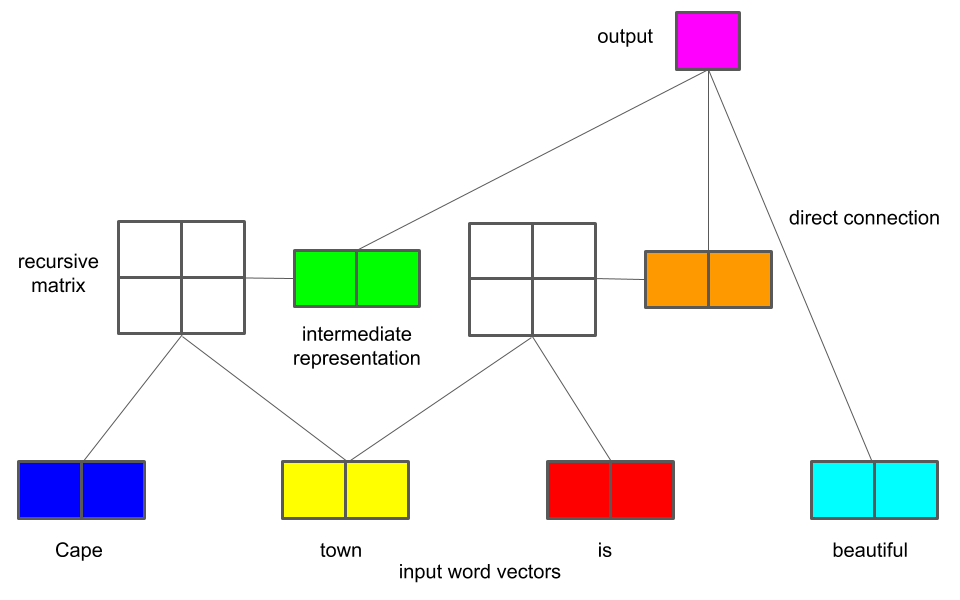
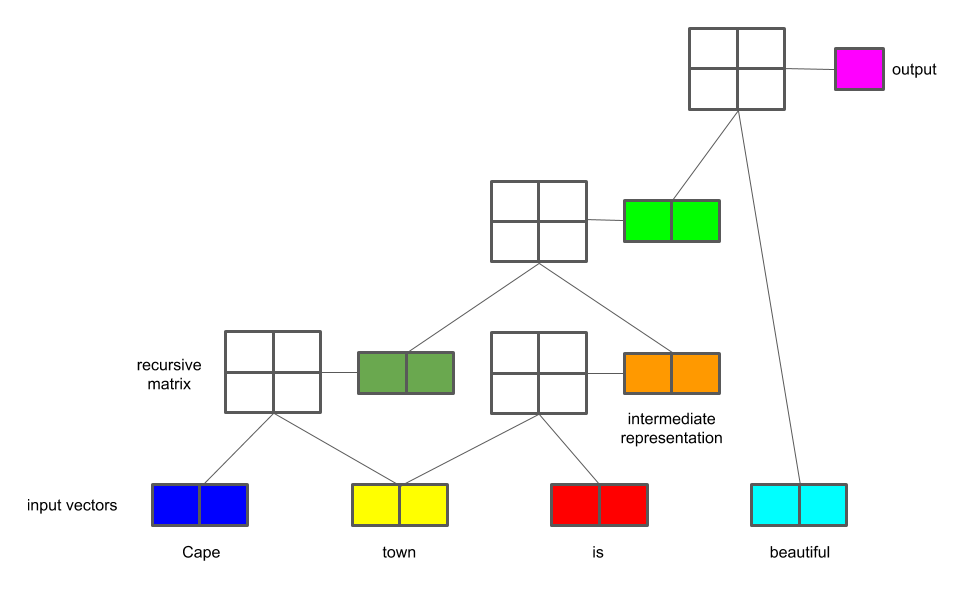
Chapter3 - Review comments 2 - Section3.1
Iterate NTN model training algorithm optimisation partII.

diff --git a/Chapter3/chapter3.tex b/Chapter3/chapter3.tex
@@ -36,7 +36,7 @@ Knowledge graphs (KGs) are a framework used to represent logical structure in da
 
 \section{Neural tensor networks}
 
-\subsection{Neural tensor factorisation}
+\subsection{Nonlinear latent feature modelling}
 Nickel et al. \unskip ~\citep{nickel2011three} introduced the bilinear tensor product for relational scoring, in a model called RESCAL. This model makes use of entity vectors and a relational tensor, where each relation type is modelled as a matrix slice of the tensor. RESCAL is defined as follows:
 \begin{equation}
 	f_{i, k, j} = e_i^TW_ke_j = \sum_{a=1}^{H_e}\sum_{b=1}^{H_e}W_{a,b,k}e_{ia}e_{jb}
@@ -73,11 +73,11 @@ Chen et al.  \unskip ~\citep{socher2013reasoning} introduce nonlinear tensor fac
 	g_{i,k,j} =  u_k^Tf(e_i^TW_k^{\left [1:m \right ]} e_j + V_k \left [ \begin{matrix} e_i \\ e_j \end{matrix} \right ] + b_k)
 \end{equation}
 
-\noindent where $ g_{i,k,j} $ is the relational score tensor, $ u_k^T $ is the vector of scores indexed by relation $ k $, and $ f $ is the hyperbolic tangent function. $ e_i^TW_k^{\left [1:m \right ]} e_j $ is the bilinear tensor product between subject vector $ e_i^T \in \mathbb{R}^{1 \times n} $ and object vector $ e_j \in \mathbb{R}^{n \times 1} $, computed for relations $ W_k \in \mathbb{R}^{n \times n} $, where $ k \in \{1 \dots \; m \} $, and $ b_k $ is the bias. $ \; V_k \left [ \begin{matrix} e_i \\ e_j \end{matrix} \right ] $ is the recursive entity composition, where $ V_k \in \mathbb{R}^{k \times 2n} $ is a matrix of trainable parameters, and the matrix-vector product is taken between $ V_k $ and the concatenation of the subject and object vectors. A row of matrix $ V_k $ corresponds to relation $ k $. \par
+\noindent where $ g_{i,k,j} $ is the relational score tensor, $ u_k^T \in \mathbb{R}^{1 \times m} $ is an output layer of trainable prameters, and $ f $ is the hyperbolic tangent function. $ e_i^TW_k^{\left [1:m \right ]} e_j $ is the bilinear tensor product between subject vector $ e_i^T \in \mathbb{R}^{1 \times n} $ and object vector $ e_j \in \mathbb{R}^{n \times 1} $, computed for relations $ W_k \in \mathbb{R}^{n \times n} $, where $ k \in \{1 \dots \; m \} $, and $ b_k $ is the bias. $ \; V_k \left [ \begin{matrix} e_i \\ e_j \end{matrix} \right ] $ is the recursive entity composition, where $ V_k \in \mathbb{R}^{k \times 2n} $ is a matrix of trainable parameters, and the matrix-vector product is taken between $ V_k $ and the concatenation of the subject and object vectors. A row of matrix $ V_k $ corresponds to relation $ k $. The output of a subject $ i $ and object $ j $ input, $ \{ e_i, \; e_j \} $, is a vector of relational scores $ \{ s_{i,1,j}, \; \dots, \; s_{i,m,j} \} $ for all predicates $ W_k $ of the KG. 
 
 \begin{figure}[H]
    	\centering
-    	\includegraphics[width=0.7\textwidth, height=0.3\textwidth]{recursive_neural_tensor_network.png}
+    	\includegraphics[width=0.7\textwidth, height=0.4\textwidth]{recursive_neural_tensor_network.png}
 	\captionsetup{justification=centering}
 	\caption{Recursive neural tensor network. This model computes the bilinear tensor product, and adds it to a recursive composition of entities and a bias to compute a relational score between the entities. The final result is squashed using a hyperbolic tangent function.}
 \end{figure}
@@ -91,31 +91,43 @@ Chen et al.  \unskip ~\citep{socher2013reasoning} introduce nonlinear tensor fac
 
 \noindent The NTN model training algorithm also makes use of pre-trained word vectors, from a language model by Turian et al. \unskip ~\citep{turian2010word}, to initialise entity embeddings. These are 100-dimensional vectors, which are aggregated from the set of words that represent an entity. For example for the entity \textit{homo sapiens}, the resulting entity embedding is $V_{homo \; sapiens} = 0.5(V_{homo} + V_{sapiens})$. These entity embeddings are trainable, and updated using backpropagation to generate a distributed representation of words that aligns with the KG of the particular application. \par
 
-\noindent \textbf{Training algorithm optimisation.} Deep model training can suffer from noisy gradient signals when using stochastic gradient descent, mini batch optimisation and regularisation techniques such as dropout. Deep models can also suffer from insufficient signal to update parameters, a problem known as sparse gradients. Adaptive moment estimation (Adam) is a first order gradient-based stochastic optimisation algorithm that compensates for this noise \unskip ~\citep{kingma2014adam}. It computes the adaptive learning rates for parameters using the first and second order moments of the gradient, combining the advantages of AdaGrad ~\citep{duchi2011adaptive} and RMSprop ~\citep{tieleman2012lecture}. Adam efficiently regulates the size of parameter updates, accelerating toward local optima and remaining small in regions with a small gradient signal, sparse regions. \par
+\subsection{Training algorithm optimisation} 
 
-\noindent Setting model hyperparameters remains a challenge in deep model training. A simple method proposed to address this problem is hyperparameter random search \unskip ~\citep{bergstra2012random}. This approach improves on grid search by matching or exceeding model performance in a fraction of the compute time. It takes advantage of the fact that for most datasets only a subset of the hyperparameters contribute meaningful variance in model performance, eliminating the need for an exhaustive brute force search over a large combinatorial search space. \par
+Overfitting can be a concern for models with large numbers of parameters. This problem results in poor generalisation to testing data by the model. It can occur when training has progressed beyond the optimal point, and the model parameters begin to bias toward the training data. High model bias is revealed by good model performance on training data, and poor performance on validation data. Early stopping \unskip~\citep{prechelt1998early} is often used to prevent this and encourage generalisation. \par
 
-\noindent \textbf{Training algorithm.} Doss et al. reimplement the NTN model in TensorFlow \unskip ~\citep{abadi2016tensorflow}. This model severely underperforms compared to the original model, relying on AdaGrad optmisation and the same hyperparameters. We apply Adam optimsation as well as hyperparameter random search, in an attempt to improve its performance. The new training algorithm is as follows: 
+\noindent Neural model training can suffer from slow convergence when using stochastic gradient descent, mini-batch optimisation, and regularisation techniques such as dropout. Neural models can also suffer from insufficient signal to update parameters, a problem known as sparse gradients. Adaptive moment estimation (Adam) is a first order gradient-based stochastic optimisation algorithm that compensates for these problems \unskip ~\citep{kingma2014adam}. It computes the adaptive learning rates for parameters using the first and second order moments of the gradient, combining the advantages of AdaGrad ~\citep{duchi2011adaptive} and RMSprop ~\citep{tieleman2012lecture}. Adam efficiently regulates the size of parameter updates, accelerating toward local optima, and remaining small in sparse regions and where the gradient signal is small. \par
+
+\noindent Setting model hyperparameters remains a challenge in neural model training. A simple method proposed to address this problem is hyperparameter random search \unskip ~\citep{bergstra2012random}, the process of defining intervals for model hyperparameters, and randomly sampling from those intervals for a finite number of training runs (experiments). This approach improves on grid search, a brute force process that iterates through combinations of hyperparameter intervals, as models often match or exceed performance in a fraction of the training time. It takes advantage of the fact that for most datasets, only a subset of the hyperparameters contribute meaningful variance in model performance, eliminating the need for an exhaustive search over a large combinatorial space. \par
+
+\subsection{Training algorithm}
+
+Doss et al. \unskip~\citep{Doss2015} reimplemented the NTN model in TensorFlow \unskip ~\citep{abadi2016tensorflow}. This model underperforms compared to the original model, relying on AdaGrad optimisation and the same hyperparameters. We apply early stopping, Adam optimisation as well as hyperparameter random search, in an attempt to improve performance. The new training algorithm is as follows: 
 
 \medskip
 
 \begin{algorithm}[H]
-	\For{Epoch}{ // repeat for $N$ experiments using random uniform hyperparameter configuration \\
+	Repeat for $ Z $ experiments using random uniform hyperparameter configuration \\
+	\For{Epoch}{ 
 		\SetAlgoLined
 		\textbf{Input} 
-		Training set \begin{math} D = \{(x_i, y_i)\}_{i=1}^N \end{math}, of samples and labels\;
-  		\begin{math} S_{batch} \gets sample(S, b) \end{math} // sample a minibatch of size \begin{math} b \end{math} \\
-	 	\For{(x, y) \begin{math} \in S_{batch} \end{math}}{
-     			\begin{math} y^{'}_{correct} \gets predict(x) \end{math} // predict label for sample \\
-			\begin{math} y^{'}_{corrupt} \gets predict(x) \end{math} // predict label for sample \\
-			\begin{math} e \gets contrast(y_{correct}, \; y_{corrupt}, \; y^{'}_{correct}, \;  y^{'}_{corrupt}) \end{math} // compute error
-     		}
-		Update model w.r.t. \begin{math}  e \end{math} // using Adam optimser \\
+		Training set \begin{math} D = \{(x_i, \; y_i)\}_{i=1}^N \end{math}, of samples and labels\;
+  		\begin{math} S \gets sample(D, \; b) \end{math} // sample a mini-batch of size $ b $ from training set $ D $\\
+		\For{S}{
+	 		\For{(x, y) $ \in S $}{
+     				$ y^{'}_{correct} \gets predict(x) $ \\ // for $ \{ e_i, e_{jt} \} $ predict relational score $ g(T^{(i)}) $ for sample \\
+				$ y^{'}_{corrupt} \gets predict(x) $ \\ // for $ \{ e_i, e_{jc} \} $ predict relational score $ g(T_c^{(i)}) $ for sample \\
+				$ e \gets contrast(y^{'}_{correct}, \;  y^{'}_{corrupt}) $ // compute error
+     			}
+			Update model w.r.t. \begin{math}  e \end{math} // using Adam optimser \\
+			\For{Validation}{
+				Check validation score at previous iteration, $ vScore_{t - 1} $ \\
+				If  $ vScore_{t} < vScore_{t - 1} $ \\
+					Stop training. // early stopping
+			}
+		}
 	}
-	\caption{Updated NTN training algorithm}
+	\caption{Optimised NTN training algorithm}
 \end{algorithm} 
-
-\newpage
 
 
 % **************************** Second Section **************************
